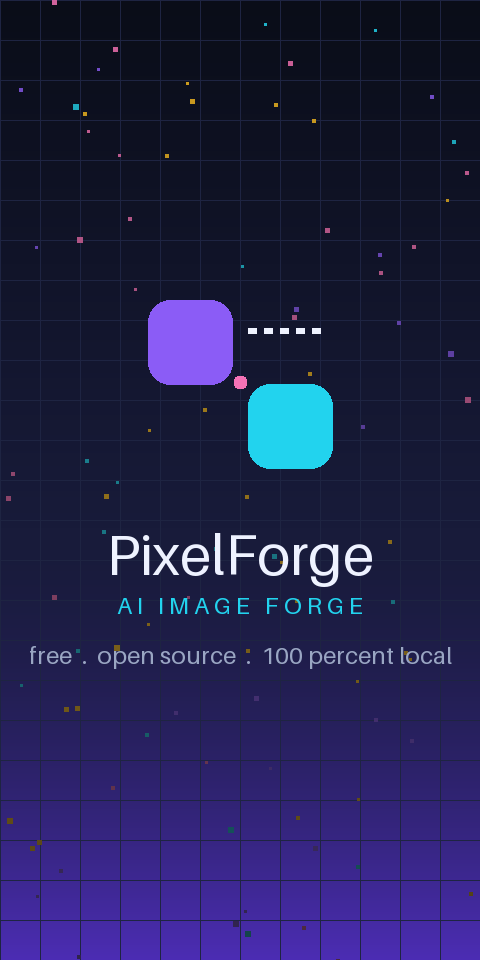
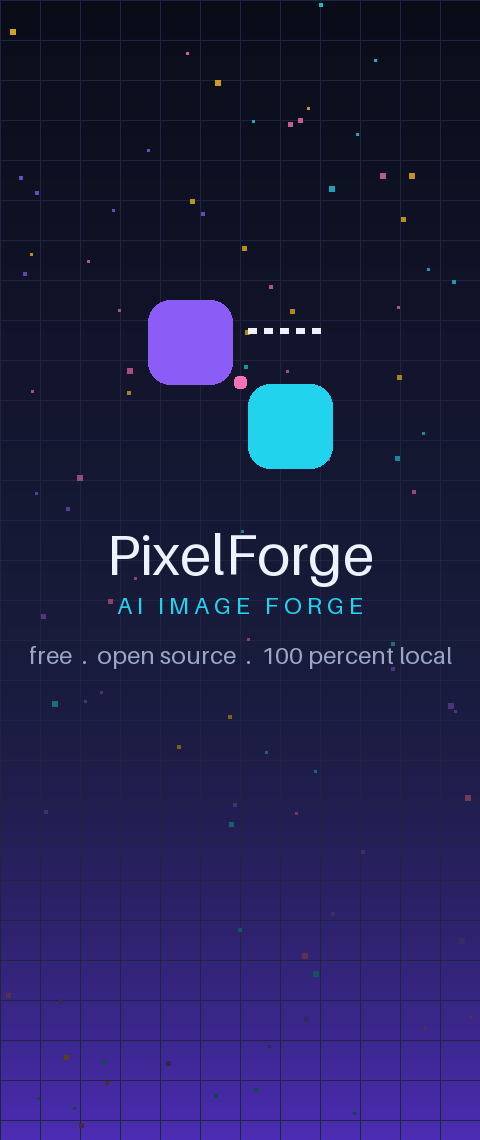
v0.3.5 — setup window fit, visible nav buttons, no console window
- form used outer Size (title bar ate the button row) -> ClientSize now,
  nav buttons fully visible with flat styling and explicit colors
- Next/Finish button changes color by state
- setup.bat launches PowerShell hidden and exits immediately: only the
  setup GUI appears, no black console behind it
- banner art regenerated for the taller window ratio

diff --git a/scripts/make_setup_art.py b/scripts/make_setup_art.py
@@ -11,7 +11,7 @@ from pathlib import Path
 from PIL import Image, ImageDraw
 
 ROOT = Path(__file__).resolve().parent.parent
-W, H = 480, 960
+W, H = 480, 1140
 
 img = Image.new("RGB", (W, H))
 d = ImageDraw.Draw(img)

diff --git a/pixelforge/__init__.py b/pixelforge/__init__.py
@@ -1,3 +1,3 @@
 """PixelForge — open-source high-detail image upscaling for low-end GPUs."""
 
-__version__ = "0.3.4"
+__version__ = "0.3.5"
